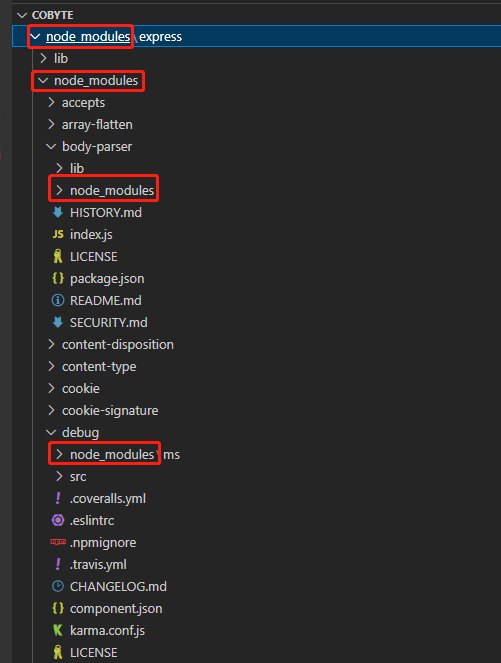
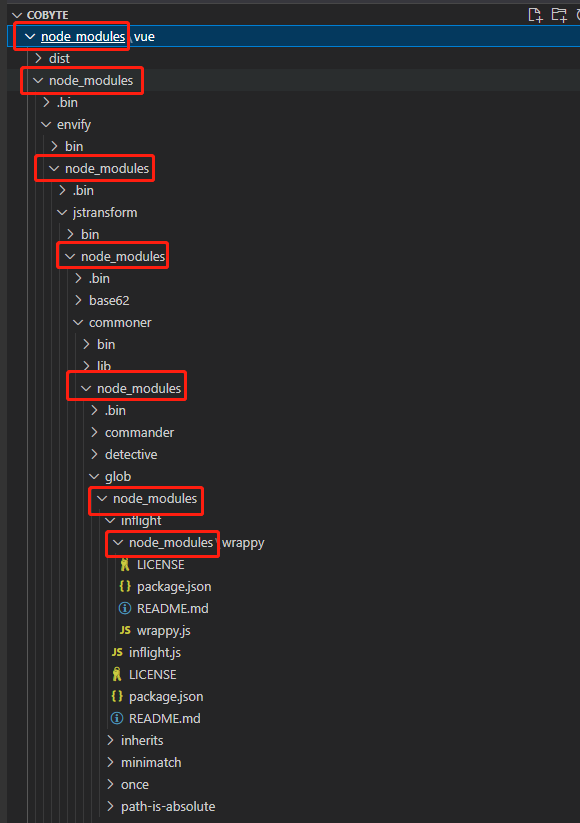
fix

Changed region(s): [[0.0, 0.0, 1.0, 0.9955]]

diff --git a/README.md b/README.md
@@ -126,14 +126,35 @@ nvm install 4.0.0
 
 注意：我上述设置是在 windows 环境下设置的，mac 的同学也可以进行相同的设置。
 
-这个时候我们随便找一个目录进行 package 初始化： `npm init -y` ，接着安装一个 express， `npm install express`。
+这个时候我们随便找一个目录进行 package 初始化： `npm init -y` ，接着安装一个 Vue1， `npm install vue@1.0.0`。
 
  ![](./md/node_modules.png)
 
-我们可以到首先项目本身有一个 `node_modules` 目录，然后 express 也有一个 `node_modules` 目录，然后 express 里的一些包的目录底下也存在 `node_modules` 目录，就是一个不断套娃的状况。
+我们可以到首先项目本身有一个 `node_modules` 目录，然后 Vue1 也有一个 `node_modules` 目录，然后 Vue1 里的一些包的目录底下也存在 `node_modules` 目录，就是一个不断套娃的状况。
 
 这样回导致如果多个包之间存在相同的依赖的话，那么即便是同一个依赖包也要进行多次复制存储起来，造成磁盘空间浪费。而且嵌套过深的话，同时会造成路径过长，而 windows 的文件路径是有长度限制的，所以嵌套过深目录路径可能会超出限制。
 
-在 npm 升级到版本 3 的时候，就参考了社区的 yarn 包管理器的解决方案。将所有的依赖进行平铺，不再一层一层进行嵌套了，这样重复的依赖也剩一个了，同时也不会存在路径过长的问题。
+在 npm 升级到版本 3 的时候，就参考了社区的 yarn 包管理器的解决方案。将所有的依赖进行平铺，不再一层一层进行嵌套了，这样重复的依赖也只剩一个了，同时也不会存在路径过长的问题。
 
 这同时又带来了本章节要进行介绍的**幽灵依赖**的问题。因为所有的依赖都进行平铺了，所以依赖的依赖，也可以进行引用使用了。也就是一些没有被定义在项目中的 package.json 文件中的包，也可以进行导入使用了。但又因为没有显式在 packages 中进行声明引用，将来有一天你引用的那个主包不再使用了，而你的项目中还引用着它包中的依赖，自然就会出错了。这个就是幽灵依赖会导致的问题。
+
+下面我们进行实操一下，我们先把我们的 node 环境通过 nvm 管理工具切换成现在常用的版本，node12 以后。我们安装一下我们常用的 echarts 包。
+
+```
+npm install echarts
+```
+
+然后我们再去看看 `node_modules` 目录。
+
+ ![](./md/echarts-node_modules.png)
+
+然后我们发现除了我们安装的  `echarts` 包之外，还多了两个包：tslib、zrender。
+
+- tslib 这是的运行时库，其中包含所有 TypeScript 辅助函数。 
+- zrender.js 是可视化框架 Echarts.js 的 2D 绘制引擎，支持 canvas\svg\vml 等多种渲染方式。
+
+那么就意味着我们不需要再手动 npm install 进行安装，就可以引入使用了。
+
+![](./md/zrender.png)
+
+那么有一天当我们不再需要使用 echarts 这个包的时候，我们从项目的 package.json 文件中依赖声明中删除之后，那么我们如果在项目中引用了 zrender.js 就会报错，因为 zrender 包会随着主包 echarts 的删除而删除了。
